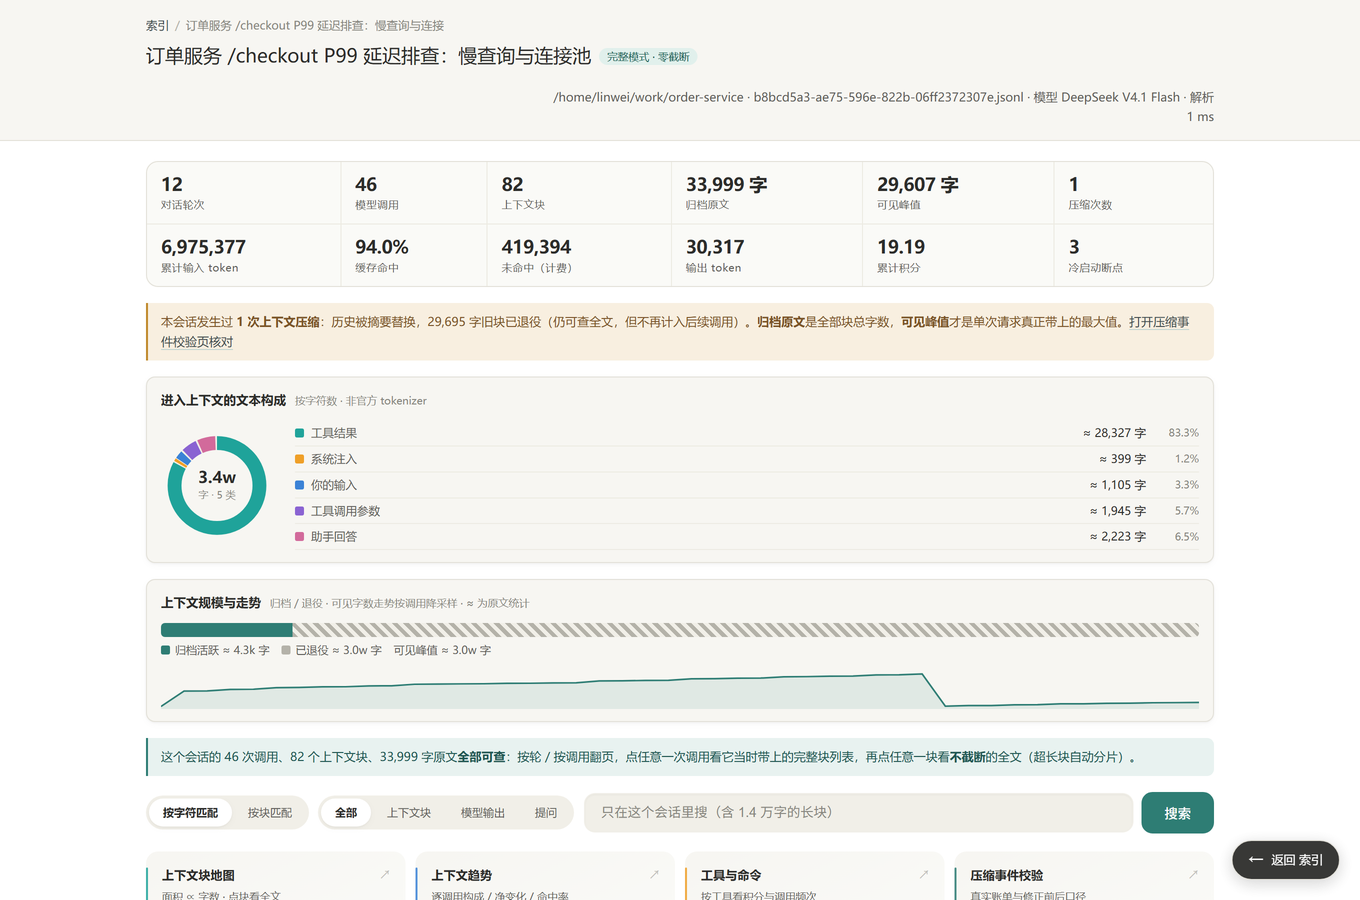
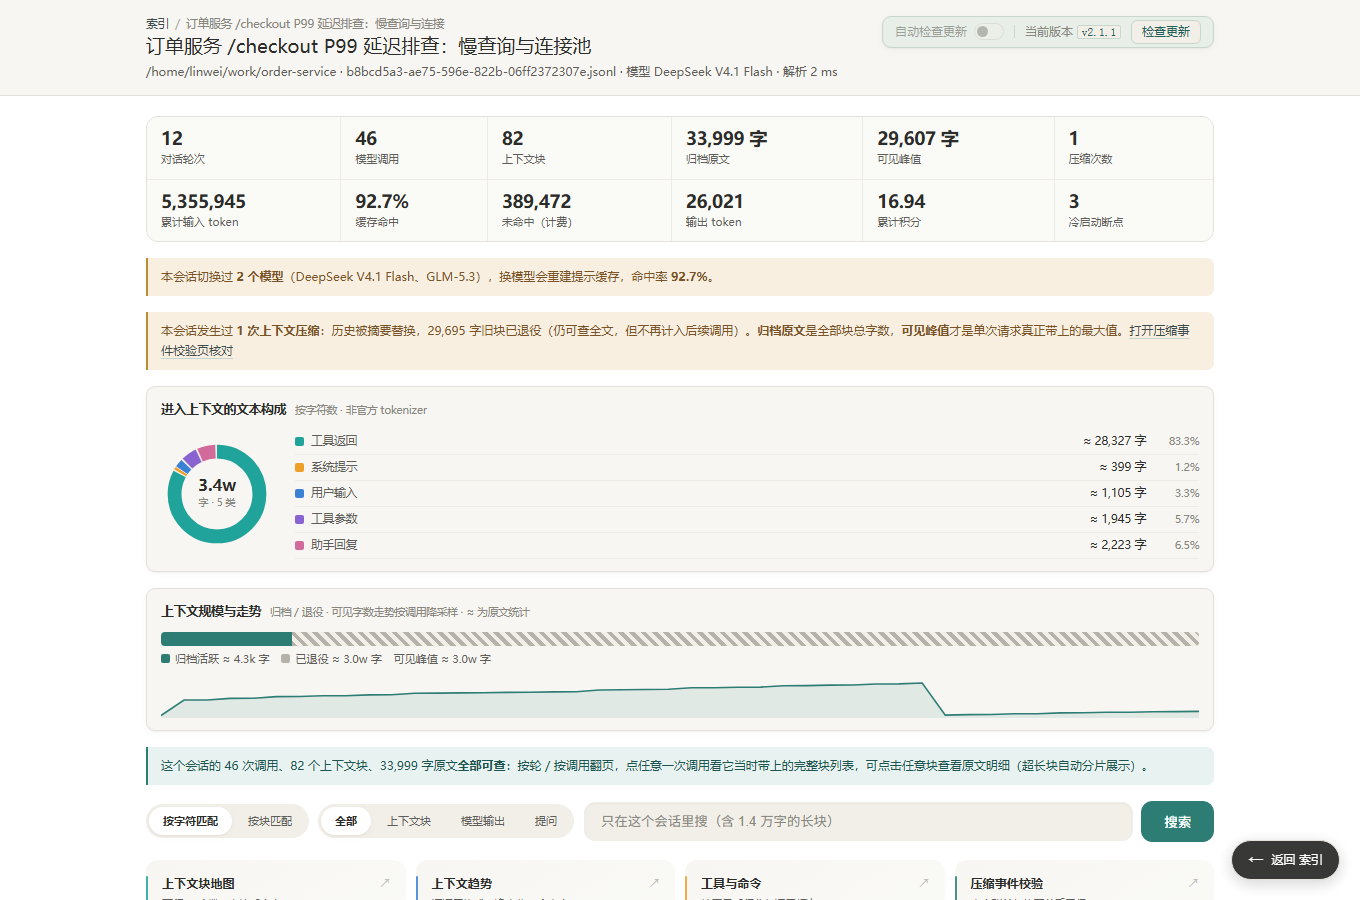
docs: 重拍演示配图；价目表补入 GPT-6.2/Gemini 3.8/Kimi K3.1/Hy3 等新模型

diff --git a/pricing.py b/pricing.py
@@ -11,30 +11,41 @@
 价格为「元 / 百万 token」：(输入, 缓存命中, 输出)。美元价按 FX_USD_CNY 折算。
 未收录的模型走 FALLBACK，并在 price_src 里明确标记 "fallback"，不冒充官方价。
 
-价目表核对日期 **2026-11-14**，逐条来源见 RATES 的第四列：
-  - 腾讯混元 hy4 ............ tencent.com 发布稿 / 腾讯云 TokenHub（6 / 0.3 / 18）
+价目表核对日期 **2026-11-23**，逐条来源见 RATES 的第四列：
+  - 腾讯混元 Hy3 / Hy4 ..... 腾讯云「计费概述（套餐订阅）」与 TokenHub 价目页
   - 智谱 GLM-5.3 / Flash ... bigmodel.cn/pricing、docs.bigmodel.cn 定价页
   - DeepSeek V4.1 Flash .... api-docs.deepseek.com 中文定价页（人民币价）
   - 蚂蚁百灵 Ling-3.2 ...... 官方发布 / IT之家（$0.30 / $0.90，缓存价未公布）
-  - OpenAI GPT-6 系列 ...... platform.openai.com/docs/pricing、openai.com 商务定价页
+  - Kimi K3.1 Pro .......... kimi.com 官方发布与开放平台国内 API 价（人民币价）
+  - Google Gemini 3.8 Flash  官方价目页（2026 年底前的引导价）
+  - OpenAI GPT-6.2 / 5.6 ... openai.com 发布页与官方 API 价目（美元价）
   - Anthropic Claude ....... Anthropic 价目页（第三方价目表交叉核对）
-  - 汇率 .................. 2026-11-14 美元中间价约 6.6726（上海银行 6.6732 /
-                              浦发 6.6718 / 国际即时 6.6726），取 6.67
+  - 汇率 .................. 取 6.67：2026-11-23 浦发中间价 6.6719 /
+                              南京银行 6.6760，与 11-14 的 6.6726 基本一致
 
 已知时点差异（不进计算，仅提示读表的人）：
   - Hy4 在腾讯云 TokenHub 至 2026-12-31 按刊例价五折；这里按全价
+  - Gemini 3.8 Flash 的 $0.75 / $3.75 是 2026-12-31 前的引导价，
+    2027-01-01 起翻倍为 $1.50 / $7.50，缓存 $0.075 → $0.15
+  - GPT-5.6 Terra 与 GPT-6.2 均按 ≤272K 短上下文档；超过阈值输入 / 缓存翻倍、
+    输出 1.5 倍，本表不做长上下文加价
   - GPT-5.6 Sol 促销价至 2026-11-30；到期后可能上调
   - Ling-3.2-flash 上线前两周免费（约至 2026-11-19）
   - DeepSeek 分峰谷：北京时间工作日 9:00-12:00、14:00-18:00 为高峰，
     三档价格全部翻倍。本表固定取**空闲时段**价，因此工作日下午的调用会低估
+  - codex-auto-review 是 Codex 自动审查的任务别名，官方按套餐计、不公布按量价；
+    这里沿用中端档并标 approx，不冒充厂商刊例价
 """
 
-FX_USD_CNY = 6.67     # 2026-11-14 美元兑人民币中间价 6.6726，见模块 docstring
+FX_USD_CNY = 6.67     # 2026-11-23 中间价约 6.672，取 6.67，见模块 docstring
 
 RATES = {
     # 腾讯混元（腾讯云 TokenHub 刊例价，2026-11）
     "hy4": (6.0, 0.3, 18.0, "腾讯云 TokenHub"),
     "hy4-preview": (6.0, 0.3, 18.0, "腾讯云 TokenHub"),
+    # 腾讯云「计费概述（套餐订阅）」：Hy3 1 / 0.25 / 4 元每百万，2026-11-23 核对
+    "hy3": (1.0, 0.25, 4.0, "腾讯云 TokenHub / 计费概述"),
+    "hy3-preview": (1.0, 0.25, 4.0, "腾讯云 TokenHub / 计费概述"),
     # 智谱 GLM（bigmodel.cn/pricing 与官方定价文档，2026-11-14 核对）
     "glm-5.3": (8.0, 2.0, 28.0, "智谱开放平台"),
     "glm-5.3-flash": (0.8, 0.23, 2.8, "智谱开放平台"),
@@ -55,6 +66,28 @@ RATES = {
     "gpt-6.1-terra": (1.0 * FX_USD_CNY, 0.05 * FX_USD_CNY, 5.0 * FX_USD_CNY, "OpenAI 价目"),
     "gpt-6-astra": (10.0 * FX_USD_CNY, 1.0 * FX_USD_CNY, 50.0 * FX_USD_CNY, "OpenAI 价目"),
     "gpt-5.6-sol": (4.0 * FX_USD_CNY, 0.40 * FX_USD_CNY, 20.0 * FX_USD_CNY, "OpenAI 价目"),
+    # 2026-11-17 发布的 GPT-6.2：Astra 输入/缓存比上一代降 20%/60%，Sol 与 6.1 Sol 同价。
+    # 官方价 $8 / $0.40 / $40 与 $2 / $0.10 / $10，按 ≤272K 短上下文档计。
+    "gpt-6.2-astra": (8.0 * FX_USD_CNY, 0.40 * FX_USD_CNY, 40.0 * FX_USD_CNY,
+                      "OpenAI 价目（GPT-6.2 发布页）"),
+    "gpt-6.2-sol": (2.0 * FX_USD_CNY, 0.10 * FX_USD_CNY, 10.0 * FX_USD_CNY,
+                    "OpenAI 价目（GPT-6.2 发布页）"),
+    "gpt-5.6-terra": (2.0 * FX_USD_CNY, 0.20 * FX_USD_CNY, 12.0 * FX_USD_CNY,
+                      "OpenAI 价目（≤272K 短上下文）"),
+    # Codex 自动审查的任务别名，官方按套餐计、没有公开按量刊例价；
+    # 沿用中端档并标记近似，避免伪装成官方价（price_src -> approx）。
+    "codex-auto-review": (4.0, 1.0, 12.0, "Codex 自动审查无官方按量价，沿用中端档（近似）"),
+    # Google Gemini 3.8 Flash（2026-12-31 前引导价，$0.75 / $0.075 / $3.75）
+    "gemini-3.8-flash": (0.75 * FX_USD_CNY, 0.075 * FX_USD_CNY, 3.75 * FX_USD_CNY,
+                         "Google AI 价目（2026 年底前引导价）"),
+    # 带后缀的实验 / 变体名没有单独官方价，沿用基础档并标记近似
+    "gemini-3.8-flash-n": (0.75 * FX_USD_CNY, 0.075 * FX_USD_CNY, 3.75 * FX_USD_CNY,
+                           "沿用 Gemini 3.8 Flash 档（近似）"),
+    "gemini-3.8-flash-exp-a": (0.75 * FX_USD_CNY, 0.075 * FX_USD_CNY, 3.75 * FX_USD_CNY,
+                               "沿用 Gemini 3.8 Flash 档（近似）"),
+    # Kimi K3.1 Pro 国内 API 价：13 / 1.3 / 68 元每百万（官方发布 2026-10-24）
+    "kimi-k3.1-pro": (13.0, 1.3, 68.0, "Kimi 开放平台国内 API 价"),
+    "kimi-k3.1-pro-highspeed": (26.0, 1.3, 136.0, "Kimi 开放平台国内 API 价（高速版）"),
     # Anthropic（WorkBuddy 可能出现的模型，按公开价近似）
     "claude-sonnet-5": (2.0 * FX_USD_CNY, 0.20 * FX_USD_CNY, 10.0 * FX_USD_CNY, "Anthropic 价目"),
     "claude-opus-4.8": (5.0 * FX_USD_CNY, 0.50 * FX_USD_CNY, 25.0 * FX_USD_CNY, "Anthropic 价目"),
@@ -152,6 +185,14 @@ if __name__ == "__main__":
         ("DeepSeek-V4.1-Flash", 1_000_000, 0, 0, 1.0),
         ("Ling-3.2-flash", 0, 0, 1_000_000, 6.003),
         ("Step-5-Preview", 1_000_000, 0, 0, 4.0),
+        ("Hy3", 1_000_000, 1_000_000, 1_000_000, 0.25 + 4.0),
+        ("GPT-6.2 Astra", 1_000_000, 0, 0, 8.0 * FX_USD_CNY),
+        ("GPT-6.2 Sol", 1_000_000, 1_000_000, 0, 0.10 * FX_USD_CNY),
+        ("GPT-5.6 Terra", 0, 0, 1_000_000, 12.0 * FX_USD_CNY),
+        ("Gemini-3.8-Flash", 1_000_000, 0, 0, 0.75 * FX_USD_CNY),
+        ("Gemini-3.8-Flash-Exp-A", 1_000_000, 0, 0, 0.75 * FX_USD_CNY),
+        ("Kimi-K3.1-Pro", 1_000_000, 1_000_000, 1_000_000, 1.3 + 68.0),
+        ("codex-auto-review", 1_000_000, 0, 0, 4.0),
     ]
     for model, pin, hit, pout, want in cases:
         got = cost_cny(model, pin, hit, pout)
